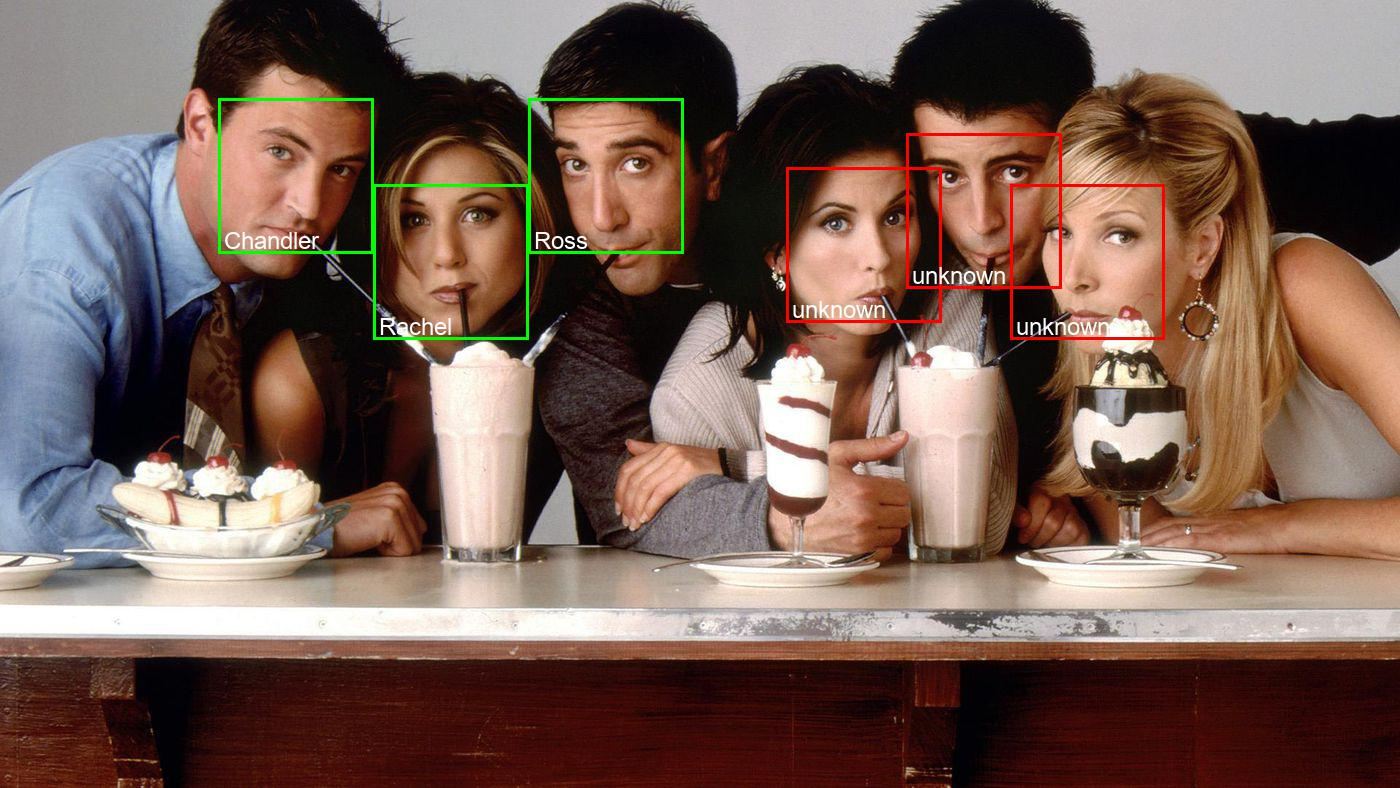
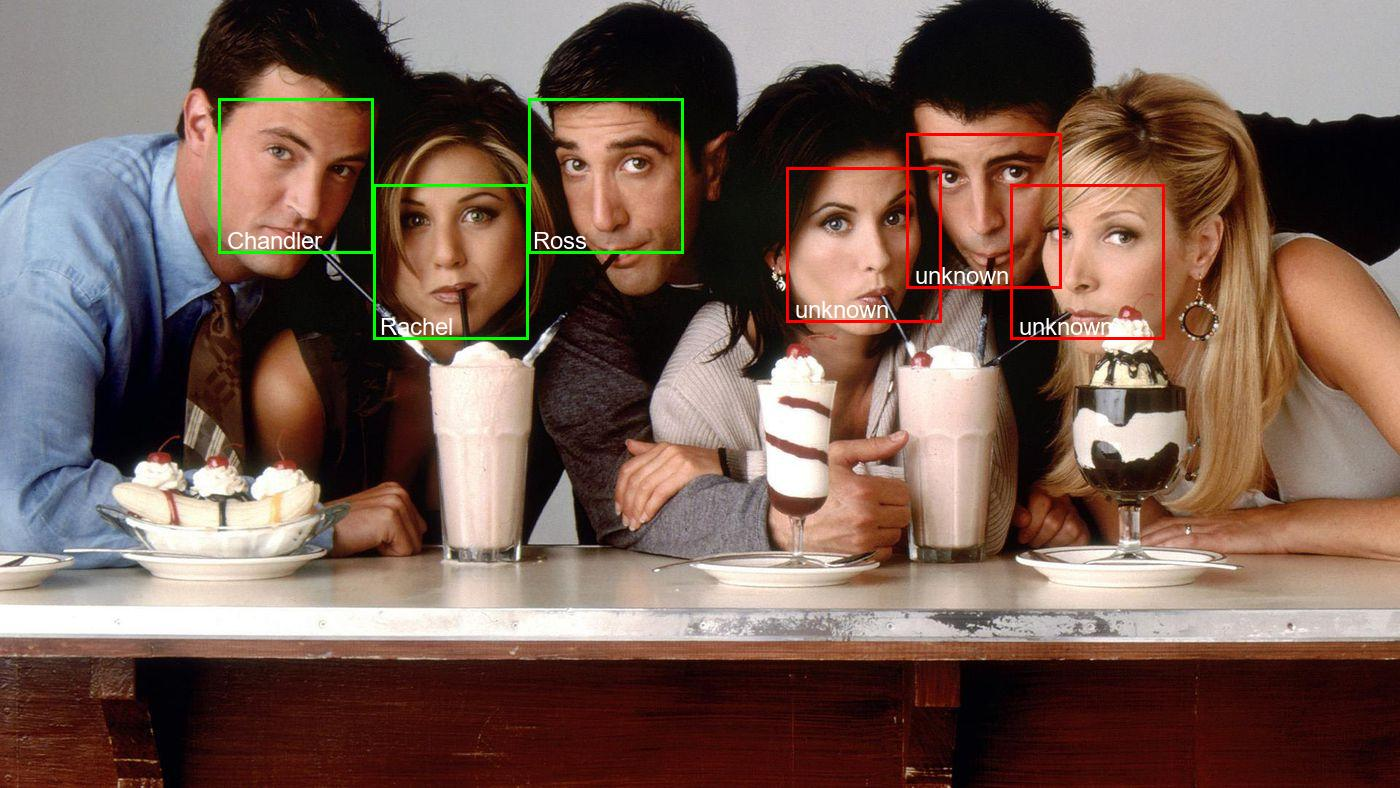
Some cosmetics

diff --git a/Tests/test_train.py b/Tests/test_train.py
@@ -1,4 +1,4 @@
-import math
+import sys
 from sklearn import neighbors
 import os
 import os.path
@@ -10,92 +10,115 @@ from PIL import Image, ImageDraw, ImageFont
 ALLOWED_EXTENSIONS = {'png', 'jpg', 'jpeg'}
 
 
-def predict(img_path, knn_clf=None, model_path=None, distance_threshold=0.4):
+def classify_faces(img_path: str,
+                   knn_clf: neighbors.KNeighborsClassifier = None,
+                   model_path: str = None,
+                   distance_threshold: float = 0.4):
     """
-    Recognizes faces in given image using a trained KNN classifier
-    :param img_path: path to image to be recognized
-    :param knn_clf: (optional) a knn classifier object. if not specified, model_save_path must be specified.
-    :param model_path: (optional) path to a pickled knn classifier. if not specified, model_save_path must be knn_clf.
-    :param distance_threshold: (optional) distance threshold for face classification. the larger it is, the more chance
-           of mis-classifying an unknown person as a known one.
-    :return: a list of names and face locations for the recognized faces in the image: [(name, bounding box), ...].
-        For faces of unrecognized persons, the name 'unknown' will be returned.
+    Try to classify faces in given image using a trained KNN classifier.
+    :param img_path: path to image to be processed.
+    :type img_path: str
+
+    :param knn_clf: (optional) a KNN classifier object. If not specified, model_save_path must be specified.
+    :type knn_clf: neighbors.KNeighborsClassifier
+
+    :param model_path: (optional) path to a pickled KNN classifier. If not specified, knn_clf must be specified.
+    :type model_path: str
+
+    :param distance_threshold: (optional) distance threshold for face classification. Value 0...1.
+    Less value requires more strict math of faces during classification.
+    :type distance_threshold: float
+
+    :return: a list of names and faces locations for the recognized faces in the source image:
+    [(name, bounding box), ...]. For faces of unrecognized persons, the name 'unknown' will be returned.
+    :rtype: [(str, (int, int, int, int))]
     """
+    assert 0.0 <= distance_threshold <= 1.0, "distance_threshold should be in range 0.0 .. 1.0"
     if not os.path.isfile(img_path) or os.path.splitext(img_path)[1][1:] not in ALLOWED_EXTENSIONS:
         raise Exception("Invalid image path: {}".format(img_path))
 
     if knn_clf is None and model_path is None:
-        raise Exception("Must supply knn classifier either through knn_clf or model_path")
+        raise Exception("KNN classifier not found neither through knn_clf, neither through model_path")
 
-    # Load a trained KNN model (if one was passed in)
+    # Try load trained KNN classifier
     if knn_clf is None:
         with open(model_path, 'rb') as f:
             knn_clf = pickle.load(f)
 
-    # Load image file and find face locations
+    # Load image and detect face locations
     x_img = face_recognition.load_image_file(img_path)
     x_face_locations = face_recognition.face_locations(x_img)
 
-    # If no faces are found in the image, return an empty result.
+    # If no faces there are in the image, return an empty result.
     if len(x_face_locations) == 0:
         return []
 
-    # Find encodings for faces in the test image
+    # Calculate encodings for faces in the source image
     faces_encodings = face_recognition.face_encodings(x_img, known_face_locations=x_face_locations)
 
-    # Use the KNN model to find the best matches for the test face
+    # Find the best match of found faces using KNN classifier
     closest_distances = knn_clf.kneighbors(faces_encodings, n_neighbors=1)
     are_matches = [closest_distances[0][i][0] <= distance_threshold for i in range(len(x_face_locations))]
 
-    # Predict classes and remove classifications that aren't within the threshold
+    # Return only names that have closeness within the threshold, otherwise return name="unknown"
     return [(pred, loc) if rec else ("unknown", loc) for pred, loc, rec in
             zip(knn_clf.predict(faces_encodings), x_face_locations, are_matches)]
 
 
-def show_prediction_labels_on_image(img_path, predictions):
+def draw_faces_boxes(image_path: str,
+                     faces: [(str, (int, int, int, int))]):
     """
-    Shows the face recognition results visually.
-    :param img_path: path to image to be recognized
-    :param predictions: results of the predict function
+    Draw faces surrounding boxes on image. Sign faces. Save modified image in the new JPEG file (adding "_mod" to name).
+    :param image_path: path to image to be processed
+    :type image_path: str
+
+    :param faces: results of the classify_faces function
+    :type faces: [(str, (int, int, int, int))]
+
     :return:
     """
-
-    if predictions is None:
+    if faces is None:
         return
-    pil_image = Image.open(img_path).convert("RGB")
-    draw = ImageDraw.Draw(pil_image)
-    w, h = pil_image.size
-    font_size = int(14 * w/800)
+    image = Image.open(image_path).convert("RGB")
+    layout = ImageDraw.Draw(image)
+    width, _ = image.size
+    font_size = int(14 * width / 800)
     font_size = font_size if font_size > 18 else 18
     font = ImageFont.truetype("arial.ttf", font_size)
 
-    for name, (top, right, bottom, left) in predictions:
-        # Draw a box around the face using the Pillow module
+    for name, (top, right, bottom, left) in faces:
+        # Draw a box around the face
         if name == 'unknown':
+            # Unknown faces should be surrounded with red box
             color_outline = (255, 0, 0)
         else:
+            # Known faces should be surrounded with green box
             color_outline = (0, 255, 0)
-        draw.rectangle(((left, top), (right, bottom)), outline=color_outline, width=3)
+        layout.rectangle(((left, top), (right, bottom)), outline=color_outline, width=3)
 
-        # Draw a label with a name below the face
-        text_width, text_height = draw.textsize(name, font=font)
-        draw.text((left + 6, bottom - int(1.2*text_height)), name, fill=(255, 255, 255, 255), font=font)
+        # Sign the face
+        text_width, text_height = layout.textsize(name, font=font)
+        layout.text((left + 0.1*text_width, bottom - int(1.2 * text_height)),
+                    name, fill=(255, 255, 255, 255), font=font)
 
-    # Remove the drawing library from memory as per the Pillow docs
-    del draw
+    # Remove the drawing library from memory as recommended by the Pillow docs
+    del layout
 
-    new_img_path = '.'.join(img_path.split('.')[0:-1]) + '_mod.jpeg'
-    pil_image.save(new_img_path)
+    # Save modified image.
+    new_img_path = '.'.join(image_path.split('.')[0:-1]) + '_mod.jpeg'
+    image.save(new_img_path)
 
 
 if __name__ == "__main__":
     parser = argparse.ArgumentParser(description="Test KNN classifier for face recognition."
                                                  "Code is based on https://github.com/ageitgey/face_recognition")
     parser.add_argument('images', type=str, nargs='+', help='paths to images')
-    parser.add_argument('--model-path', type=str, dest='model_path', action='store', required=True,
+    parser.add_argument('-mp', '--model-path', type=str, dest='model_path', action='store', required=True,
                         help='file path to store classifier as pickle')
     args = parser.parse_args()
 
     for img in args.images:
-        preds = predict(img, model_path=args.model_path, distance_threshold=0.5)
-        show_prediction_labels_on_image(img, preds)
+        found_faces = classify_faces(img, model_path=args.model_path, distance_threshold=0.5)
+        draw_faces_boxes(img, found_faces)
+
+    sys.exit(0)

diff --git a/train.py b/train.py
@@ -1,3 +1,4 @@
+import sys
 import math
 from sklearn import neighbors
 import os
@@ -96,12 +97,14 @@ def knn_train(img_dir: str,
 if __name__ == "__main__":
     parser = argparse.ArgumentParser(description="Train KNN classifier for face recognition."
                                                  "Using https://github.com/ageitgey/face_recognition")
-    parser.add_argument('--images-path', type=str, dest='img_dir', action='store', required=True,
-                        help='path to images directory')
-    parser.add_argument('--model-path', type=str, dest='model_path', action='store', default='trained_knn_model.clf',
+    parser.add_argument('-ip', '--images-path', type=str, dest='img_dir', action='store',
+                        required=True, help='path to images directory')
+    parser.add_argument('-mp', '--model-path', type=str, dest='model_path', action='store',
+                        default='trained_knn_model.clf',
                         help='file path to store classifier as pickle. Default is "trained_knn_model.clf"')
     args = parser.parse_args()
 
     print("Training KNN classifier...")
     classifier = knn_train(args.img_dir, model_path=args.model_path, n_neighbors=2)
     print("Training complete!")
+    sys.exit(0)
